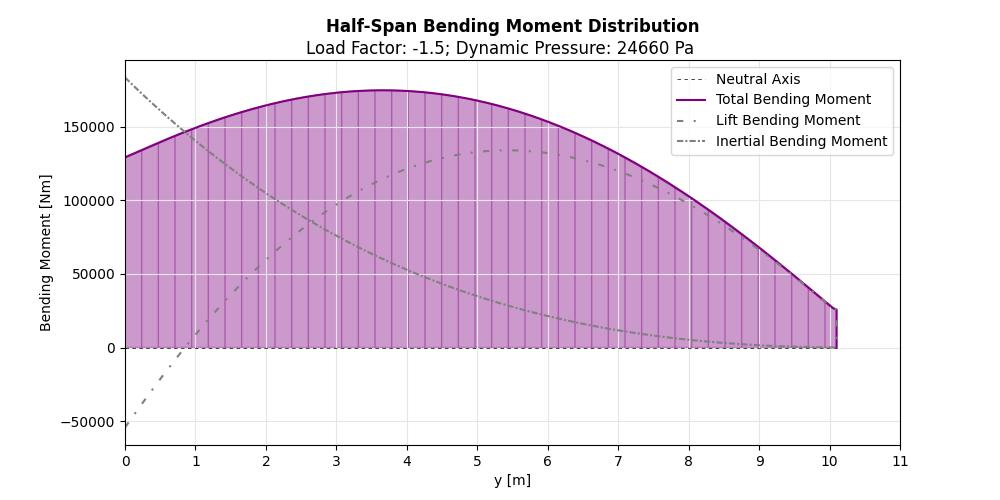
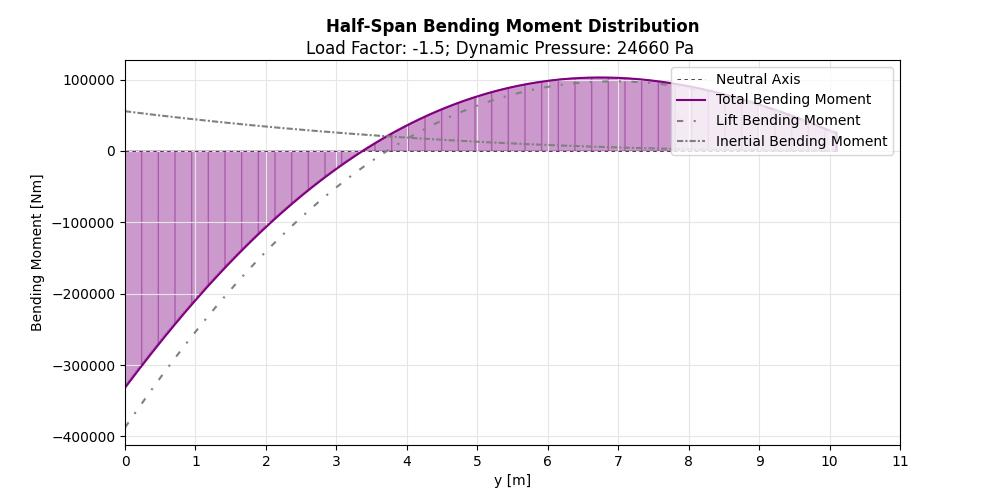
fInaL cALcS

diff --git a/codeinertia.py b/codeinertia.py
@@ -3,14 +3,19 @@ import scipy as sp
 import math as m
 from scipy import integrate
 
-from main import sum_shear1,sum_moment1,torque_dist1,sum_shear2,sum_moment2,torque_dist2
+from main import sum_shear1,sum_moment1,torque_dist1,sum_shear2,sum_moment2,torque_dist2,sum_shear3,sum_moment3,torque_dist3
 
 sum_shear1=sum_shear1[0:400]
 sum_shear2=sum_shear2[0:400]
+sum_shear3=sum_shear3[0:400]
+
 sum_moment1=sum_moment1[0:400]
-torque_dist1=torque_dist1[0:400]
 sum_moment2=sum_moment2[0:400]
+sum_moment3=sum_moment3[0:400]
+
+torque_dist1=torque_dist1[0:400]
 torque_dist2=torque_dist2[0:400]
+torque_dist3=torque_dist3[0:400]
 
 X1 = 0.2      # float(input("X-coordinate of Leading Spar X1: "))
 X2 = 0.75      # float(input("X-coordinate of Trailing Spar X2: "))
@@ -158,10 +163,13 @@ I = I_wingbox + I_stringers
 
 V1 = sum_shear1
 V2 = sum_shear2
+V3 = sum_shear3
 T1 = torque_dist1
 T2 = torque_dist2
+T3 = torque_dist3
 M1 = sum_moment1
 M2 = sum_moment2
+M3 = sum_moment3
 
 def mov(T,M):
 
@@ -318,10 +326,11 @@ def qshear(V):
 
 q1=qshear(V1)
 q2=qshear(V2)
+q3=qshear(V3)
 
 theta1,v1=mov(T1,M1)
-
 theta2,v2=mov(T2,M2)
+theta3,v3=mov(T3,M3)
 
 ##### Internal Stresses
 
@@ -329,6 +338,7 @@ theta2,v2=mov(T2,M2)
 
 vtau1 = q1/(min(t,t_spar))/10**6
 vtau2 = q2/(min(t,t_spar))/10**6
+vtau3 = q3/(min(t,t_spar))/10**6
 
 # Bending Mx
 
@@ -338,6 +348,9 @@ sigma_max1 = round(max(sigma_y1)/10**6, 2)
 sigma_y2 = (M2 * h1/2)/I
 sigma_max2 = round(max(sigma_y2)/10**6, 2)
 
+sigma_y3 = (M3 * h1/2)/I
+sigma_max3 = round(max(sigma_y3)/10**6, 2)
+
 # Torsion T
 
 tau1 = T1 / (2*enc_area*t)
@@ -346,18 +359,29 @@ tau_max1 = round(min(tau1)/10**6, 2)-vtau1
 tau2 = T2 / (2*enc_area*t)
 tau_max2 = round(min(tau2)/10**6, 2)-vtau2
 
-print("### Bending Limiting ###\n")
+tau3 = T3 / (2*enc_area*t)
+tau_max3 = round(min(tau3)/10**6, 2)-vtau3
+
+print("### Positive - Bending Limiting ###\n")
 
 print('Angle of twist is', np.sum(theta1), '[rad]')
 print('Deflection is', np.sum(v1), '[m]')
 print('Maximum normal stress due to bending is',sigma_max1,'[MPa]')
 print('Maximum shear stress due to torsion is',tau_max1,'[MPa]\n')
-print('Tau contribution due to shear: ',-1*vtau1,'[MPa]')
+print('Tau contribution due to shear: ',-1*vtau1,'[MPa]\n')
 
-print("### Torsion Limiting ###\n")
+print("### Zero - Torsion Limiting ###\n")
 
 print('Angle of twist is', np.sum(theta2), '[rad]')
 print('Deflection is', np.sum(v2), '[m]')
 print('Maximum normal stress due to bending is',sigma_max2,'[MPa]')
 print('Maximum shear stress due to torsion is',tau_max2,'[MPa]\n')
 print('Tau contribution due to shear: ',-1*vtau2,'[MPa]\n')
+
+print("### Negative ###\n")
+
+print('Angle of twist is', np.sum(theta3), '[rad]')
+print('Deflection is', np.sum(v3), '[m]')
+print('Maximum normal stress due to bending is',sigma_max3,'[MPa]')
+print('Maximum shear stress due to torsion is',tau_max3,'[MPa]\n')
+print('Tau contribution due to shear: ',-1*vtau3,'[MPa]\n')

diff --git a/main.py b/main.py
@@ -14,14 +14,14 @@ from aerodynamic_dist import * #Import interpolated continuous distributions fro
 sf=1.5 # Safety Factor
 
 nload1=sf*2.609587504
-CL1 = sf*0.133858438
+CL1 = sf*0.147668144
 
 nload2=sf*0   #2.609587504              # (float(input("Load Factor [-]: "))) # Load Factor
 CL2 = sf*0    #0.133858438               #(float(input("Lift Coefficient C_L [-]: "))) # CL
 
 q3=24658.91887
 nload3=sf*-1
-CL3 = sf*-0.080148226
+CL3 = sf*-0.137881146
 
 y=np.linspace(0,10.1,sample)
 x=np.linspace(0,10.1,sample)
@@ -194,6 +194,6 @@ def plot(x,sum_shear,lift_shear,inertial_shear,sum_moment,lift_moment,inertial_m
 
     plt.show()
     
-plot(x,sum_shear1,lift_shear1,inertial_shear1,sum_moment1,lift_moment1,inertial_moment1,torque_dist1,nload1,q)
-plot(x,sum_shear2,lift_shear2,inertial_shear2,sum_moment2,lift_moment2,inertial_moment2,torque_dist2,nload2,q)
-plot(x,sum_shear3,lift_shear3,inertial_shear3,sum_moment3,lift_moment3,inertial_moment3,torque_dist3,nload3,q3)
+# plot(x,sum_shear1,lift_shear1,inertial_shear1,sum_moment1,lift_moment1,inertial_moment1,torque_dist1,nload1,q)
+# plot(x,sum_shear2,lift_shear2,inertial_shear2,sum_moment2,lift_moment2,inertial_moment2,torque_dist2,nload2,q)
+# plot(x,sum_shear3,lift_shear3,inertial_shear3,sum_moment3,lift_moment3,inertial_moment3,torque_dist3,nload3,q3)
